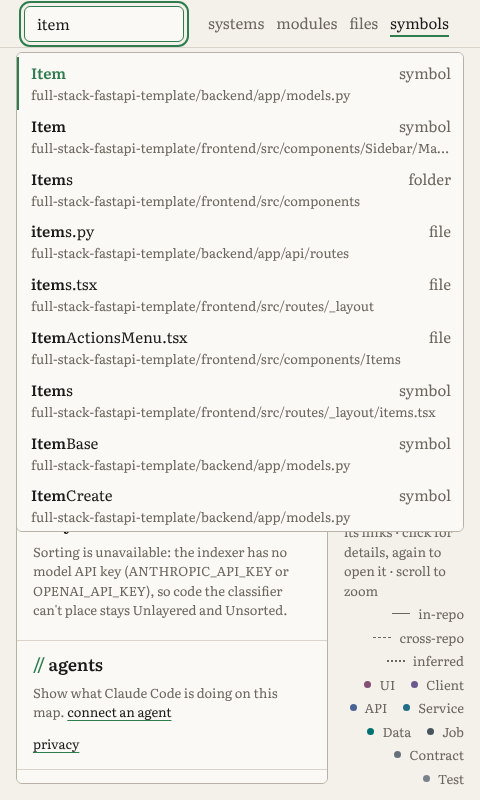
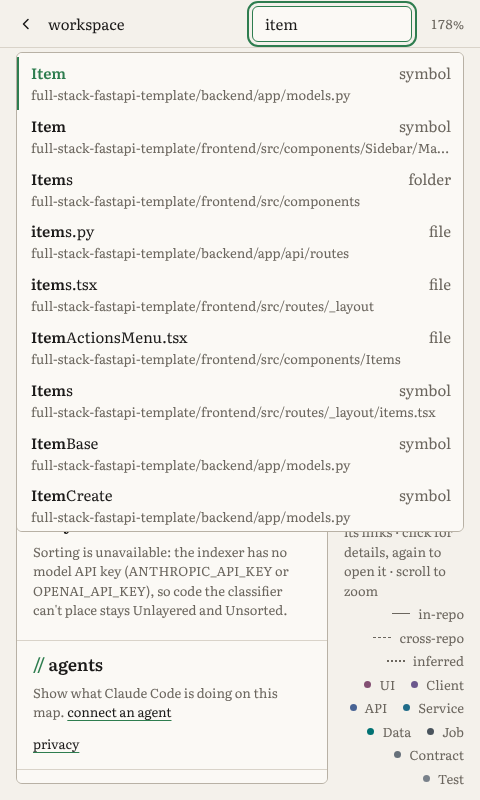
Top bar: altitude words give way on narrow screens so back, the breadcrumb and search fit
Claude-Session: https://claude.ai/code/session_01VEQmCUMj36oNfCDo6wnBi3

Changed region(s): [[0.4375, 0.0, 0.9375, 0.0625], [0.0312, 0.0, 0.4062, 0.0625]]

diff --git a/web/src/styles.css b/web/src/styles.css
@@ -144,8 +144,15 @@ a { color: inherit; }
 .search-hits li.search-none { color: var(--muted); cursor: default; }
 /* Narrow windows: the field shrinks and its matches span the window under the top bar, not off its left edge. */
 @media (max-width: 760px) {
+  /* The breadcrumb already says where you are; the altitude words give way so back and the breadcrumb keep their room. */
+  .altitudes { display: none; }
+  .topbar-right { gap: var(--space-sm); }
+  .crumbs .back { flex: none; }
   .search input { width: 160px; }
   .search-hits { position: fixed; left: var(--space-md); right: var(--space-md); top: calc(var(--fiada-topbar) + var(--space-xs)); width: auto; }
+}
+@media (max-width: 420px) {
+  .search input { width: 120px; }
 }
 
 /* ── map ── */
